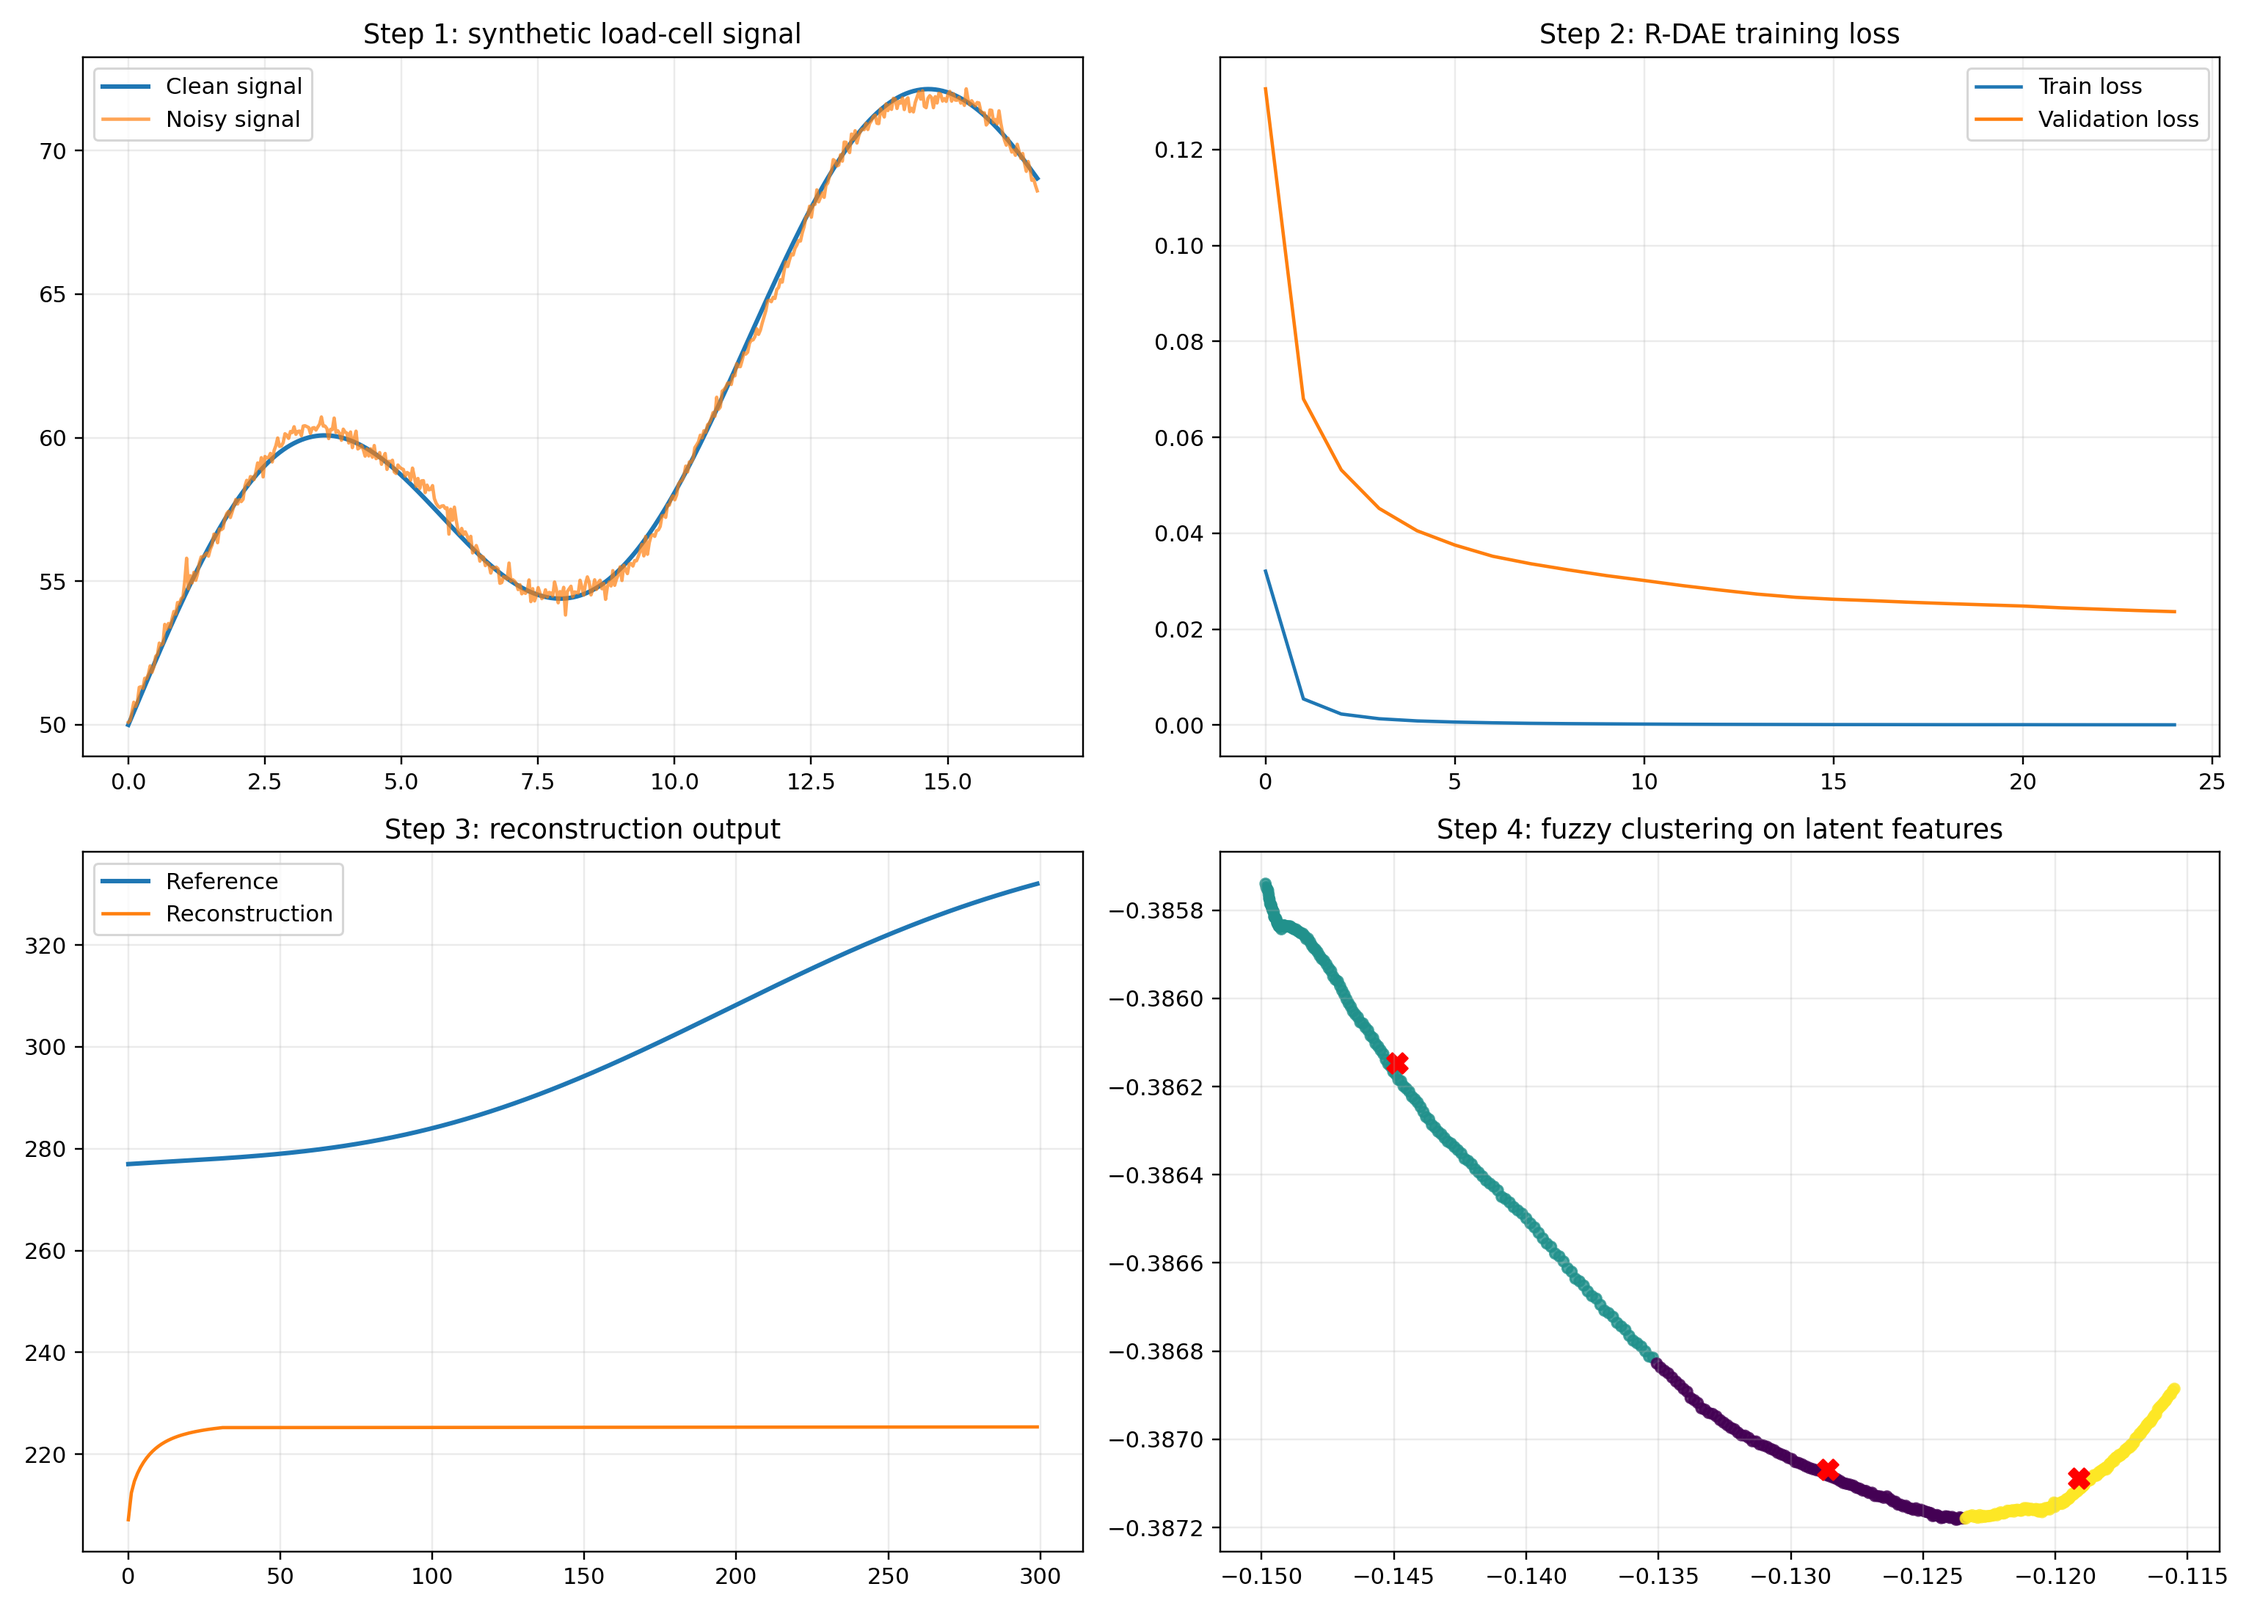
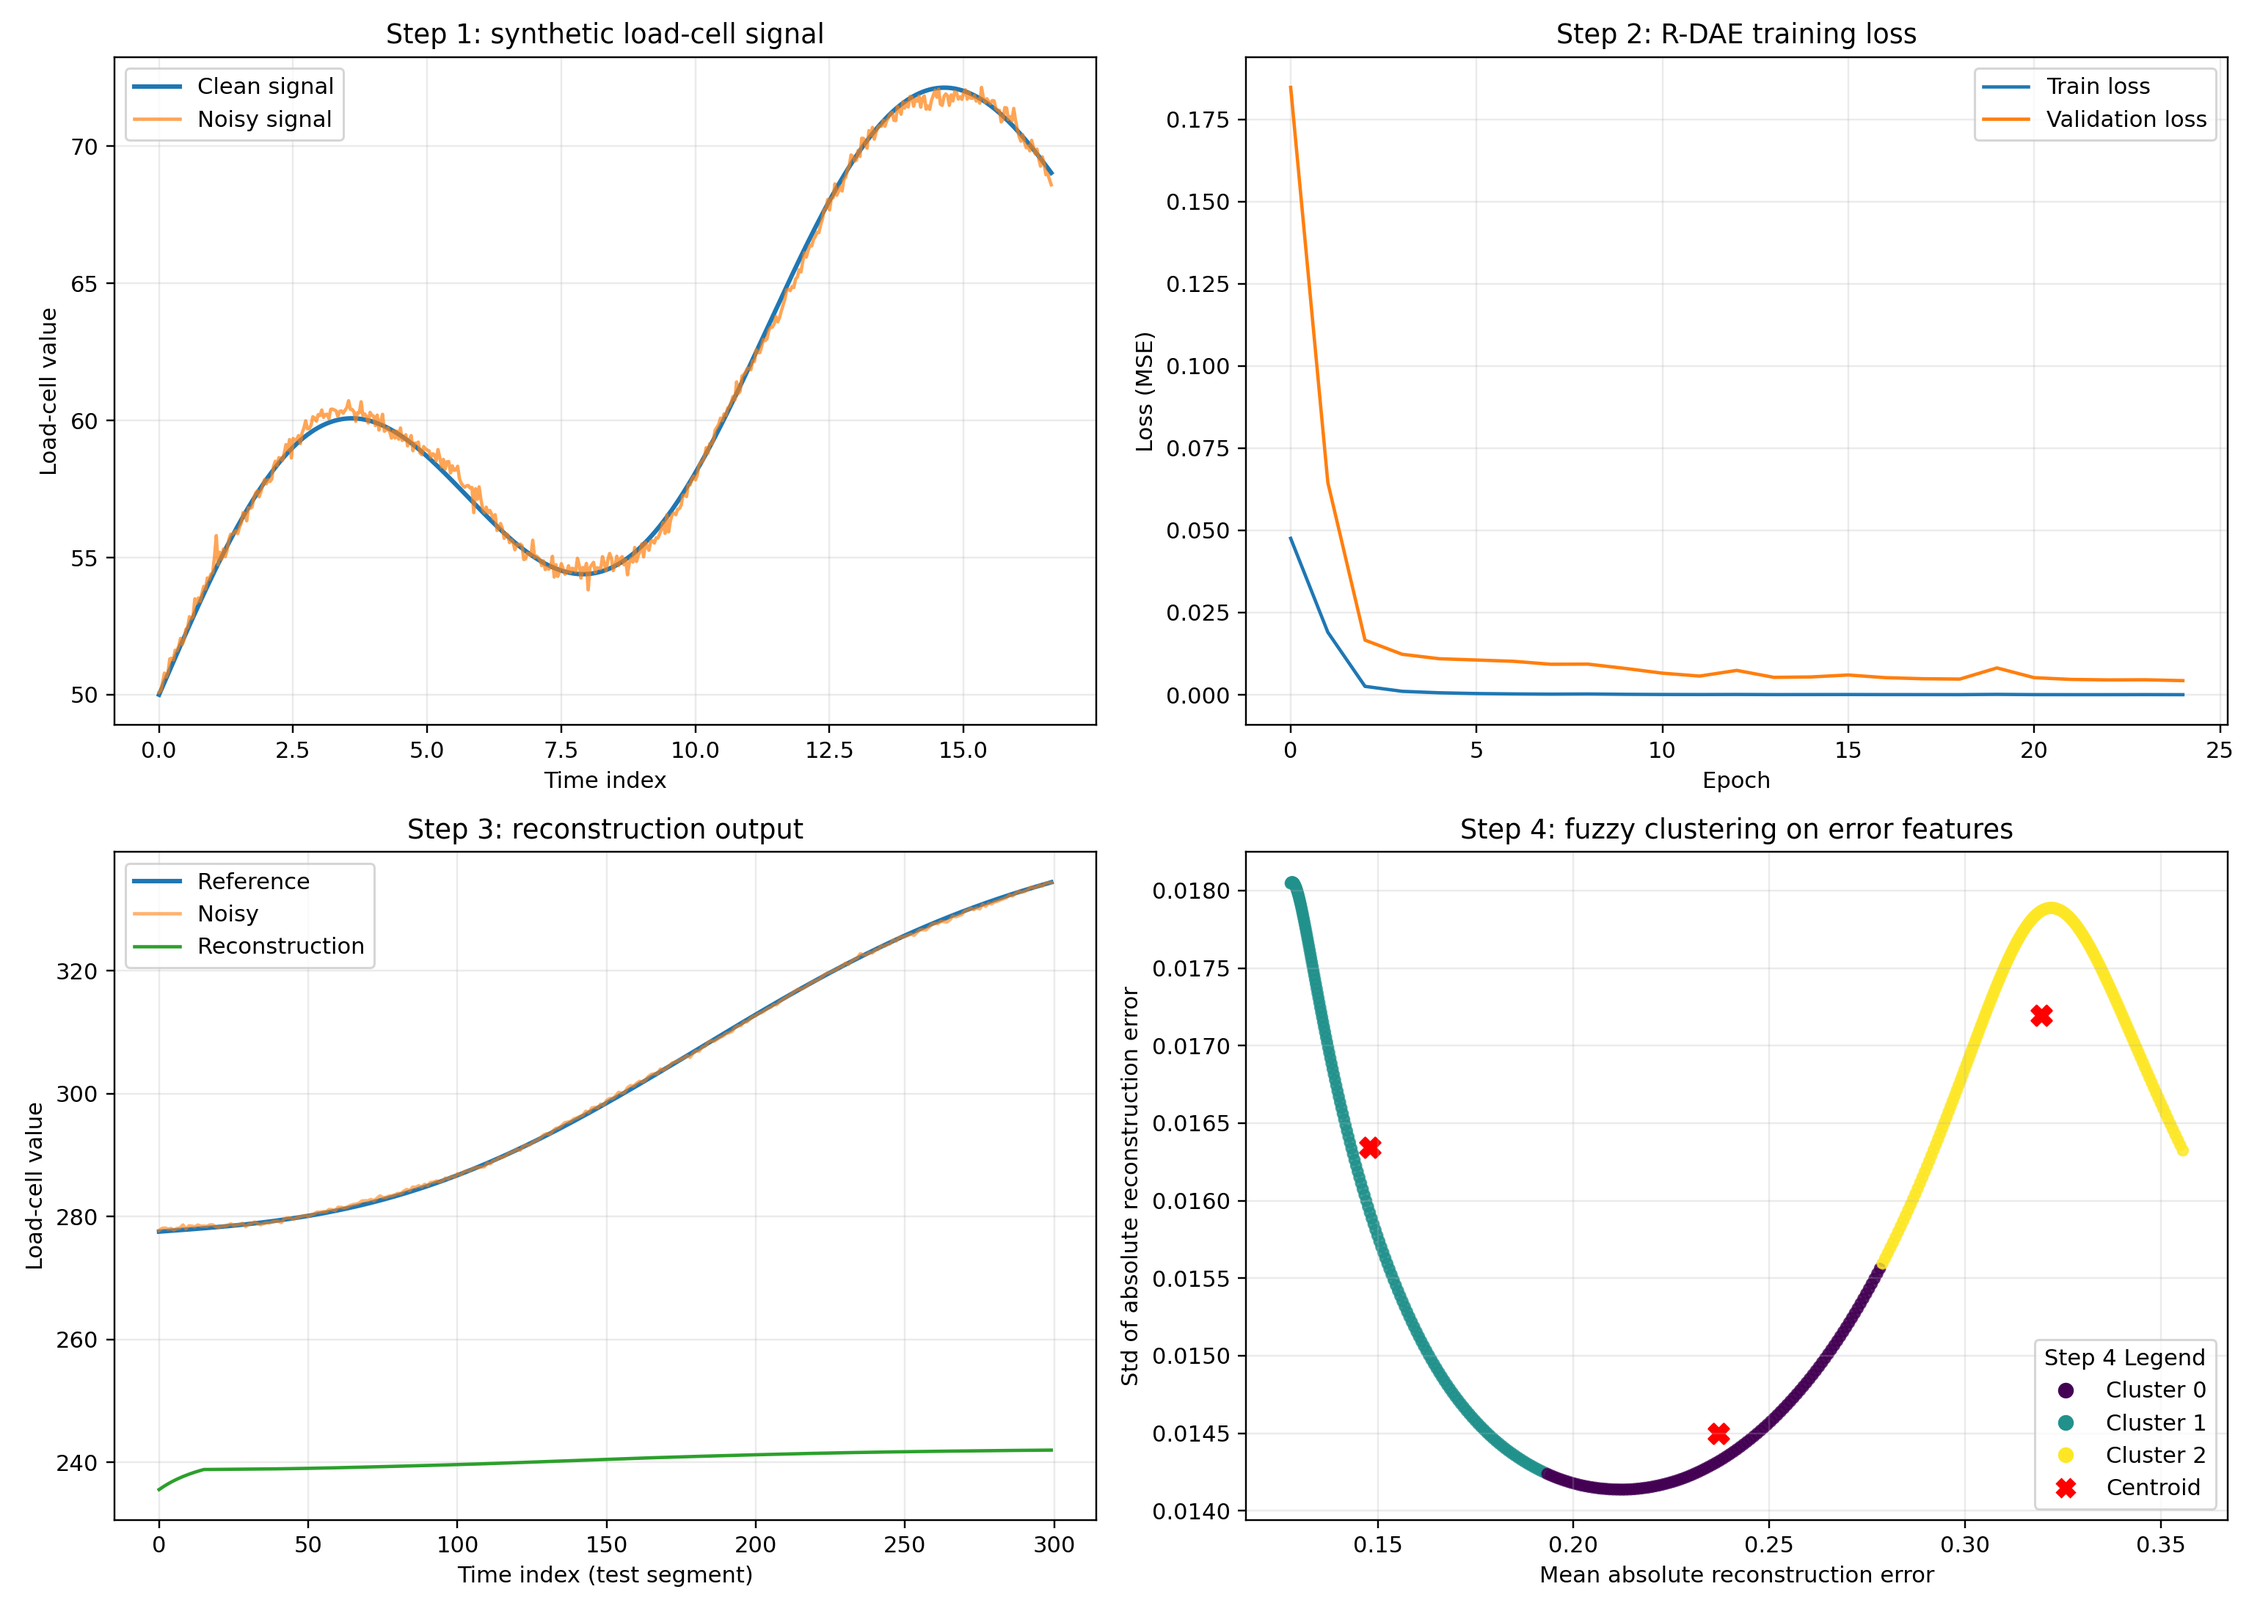
Program updation and title modification

diff --git a/loadcell_planned_pipeline.py b/loadcell_planned_pipeline.py
@@ -1,5 +1,6 @@
 import numpy as np
 import matplotlib.pyplot as plt
+from matplotlib.lines import Line2D
 import tensorflow as tf
 from tensorflow.keras import Model
 from tensorflow.keras.layers import Input, LSTM, RepeatVector, TimeDistributed, Dense
@@ -145,11 +146,13 @@ def main():
     print('Step 1: synthetic load-cell dataset generation')
     t, clean, noisy = generate_loadcell_signal(n_samples=3000)
 
-    train_noisy, train_clean, val_noisy, val_clean, test_noisy, test_clean = split_signal(noisy, clean)
-
+    # Use full signal range for this demo pipeline so sigmoid output can represent
+    # the complete trajectory during plotting and reconstruction.
     signal_scaler = MinMaxScaler(feature_range=(0.0, 1.0))
-    all_train_values = np.concatenate([train_noisy.reshape(-1, 1), train_clean.reshape(-1, 1)])
-    signal_scaler.fit(all_train_values)
+    all_values = np.concatenate([noisy.reshape(-1, 1), clean.reshape(-1, 1)])
+    signal_scaler.fit(all_values)
+
+    train_noisy, train_clean, val_noisy, val_clean, test_noisy, test_clean = split_signal(noisy, clean)
 
     train_noisy_norm = signal_scaler.transform(train_noisy.reshape(-1, 1)).ravel()
     val_noisy_norm = signal_scaler.transform(val_noisy.reshape(-1, 1)).ravel()
@@ -202,10 +205,19 @@ def main():
     reconstructed_seq = np.clip(reconstructed_seq, 0.0, 1.0)
     reconstructed_orig = signal_scaler.inverse_transform(reconstructed_seq.reshape(-1, 1)).ravel()
 
-    mse_noisy = mean_squared_error(test_clean, test_noisy)
-    mae_noisy = mean_absolute_error(test_clean, test_noisy)
-    mse_recon = mean_squared_error(test_clean, reconstructed_orig)
-    mae_recon = mean_absolute_error(test_clean, reconstructed_orig)
+    # Build aligned reference/noisy series from the same windowed domain for fair visual comparison.
+    reference_seq = reconstruct_signal(y_test.reshape(-1, WINDOW_SIZE, 1), len(test_clean_norm), WINDOW_SIZE)
+    reference_orig = signal_scaler.inverse_transform(reference_seq.reshape(-1, 1)).ravel()
+    noisy_seq = reconstruct_signal(X_test.reshape(-1, WINDOW_SIZE, 1), len(test_noisy_norm), WINDOW_SIZE)
+    noisy_orig = signal_scaler.inverse_transform(noisy_seq.reshape(-1, 1)).ravel()
+
+    valid_start = WINDOW_SIZE // 2
+    valid_end = len(test_clean) - (WINDOW_SIZE // 2)
+
+    mse_noisy = mean_squared_error(reference_orig[valid_start:valid_end], noisy_orig[valid_start:valid_end])
+    mae_noisy = mean_absolute_error(reference_orig[valid_start:valid_end], noisy_orig[valid_start:valid_end])
+    mse_recon = mean_squared_error(reference_orig[valid_start:valid_end], reconstructed_orig[valid_start:valid_end])
+    mae_recon = mean_absolute_error(reference_orig[valid_start:valid_end], reconstructed_orig[valid_start:valid_end])
 
     print('\n==== Evaluation summary ====')
     print(f'Noisy test MSE: {mse_noisy:.6f} | MAE: {mae_noisy:.6f}')
@@ -217,24 +229,69 @@ def main():
     axes[0, 0].plot(t[:500], clean[:500], label='Clean signal', linewidth=2)
     axes[0, 0].plot(t[:500], noisy[:500], label='Noisy signal', alpha=0.7)
     axes[0, 0].set_title('Step 1: synthetic load-cell signal')
+    axes[0, 0].set_xlabel('Time index')
+    axes[0, 0].set_ylabel('Load-cell value')
     axes[0, 0].legend()
     axes[0, 0].grid(alpha=0.25)
 
     axes[0, 1].plot(history.history['loss'], label='Train loss')
     axes[0, 1].plot(history.history['val_loss'], label='Validation loss')
     axes[0, 1].set_title('Step 2: R-DAE training loss')
+    axes[0, 1].set_xlabel('Epoch')
+    axes[0, 1].set_ylabel('Loss (MSE)')
     axes[0, 1].legend()
     axes[0, 1].grid(alpha=0.25)
 
-    axes[1, 0].plot(test_clean[:300], label='Reference', linewidth=2)
-    axes[1, 0].plot(reconstructed_orig[:300], label='Reconstruction', linewidth=1.5)
+    view_start = valid_start
+    view_end = min(valid_start + 300, valid_end)
+    axes[1, 0].plot(reference_orig[view_start:view_end], label='Reference', linewidth=2)
+    axes[1, 0].plot(noisy_orig[view_start:view_end], label='Noisy', alpha=0.6)
+    axes[1, 0].plot(reconstructed_orig[view_start:view_end], label='Reconstruction', linewidth=1.5)
     axes[1, 0].set_title('Step 3: reconstruction output')
+    axes[1, 0].set_xlabel('Time index (test segment)')
+    axes[1, 0].set_ylabel('Load-cell value')
     axes[1, 0].legend()
     axes[1, 0].grid(alpha=0.25)
 
-    axes[1, 1].scatter(feature_test[:, 0], feature_test[:, 1], c=labels, cmap='viridis', s=20, alpha=0.8)
-    axes[1, 1].scatter(centers[:, 0], centers[:, 1], c='red', s=80, marker='X')
-    axes[1, 1].set_title('Step 4: fuzzy clustering on latent features')
+    err_mean_idx = -3
+    err_std_idx = -2
+    scatter = axes[1, 1].scatter(
+        feature_test[:, err_mean_idx],
+        feature_test[:, err_std_idx],
+        c=labels,
+        cmap='viridis',
+        s=20,
+        alpha=0.8,
+    )
+    axes[1, 1].scatter(centers[:, err_mean_idx], centers[:, err_std_idx], c='red', s=80, marker='X')
+
+    unique_labels = np.unique(labels)
+    cluster_handles = [
+        Line2D(
+            [0],
+            [0],
+            marker='o',
+            linestyle='None',
+            markerfacecolor=scatter.cmap(scatter.norm(cluster_id)),
+            markeredgecolor='none',
+            markersize=7,
+            label=f'Cluster {cluster_id}',
+        )
+        for cluster_id in unique_labels
+    ]
+    centroid_handle = Line2D(
+        [0],
+        [0],
+        marker='X',
+        linestyle='None',
+        color='red',
+        markersize=8,
+        label='Centroid',
+    )
+    axes[1, 1].legend(handles=cluster_handles + [centroid_handle], title='Step 4 Legend')
+    axes[1, 1].set_title('Step 4: fuzzy clustering on error features')
+    axes[1, 1].set_xlabel('Mean absolute reconstruction error')
+    axes[1, 1].set_ylabel('Std of absolute reconstruction error')
     axes[1, 1].grid(alpha=0.25)
 
     fig.tight_layout()

diff --git a/methodology_strategy_comparison.md b/methodology_strategy_comparison.md
@@ -65,8 +65,9 @@ flowchart LR
 
 ## Markdown comparison table
 
+
 | Stage                  | Paper strategy                           | Implemented strategy                             | Planned strategy                                       | Difference                                      | Upgrade needed                                                                           |
-| ---------------------- | ---------------------------------------- | ------------------------------------------------ | ------------------------------------------------------ | ----------------------------------------------- | ---------------------------------------------------------------------------------------- |
+| ------------------------ | ------------------------------------------ | -------------------------------------------------- | -------------------------------------------------------- | ------------------------------------------------- | ------------------------------------------------------------------------------------------ |
 | Data source            | Bearing vibration signals                | Load-cell ADC recordings                         | Multi-load, multi-frequency sensor dataset             | Different domain and target objective           | Collect wider dataset with multiple loads and frequency conditions                       |
 | Goal                   | Fault diagnosis + RUL                    | Noise reduction + calibration                    | Denoising + health assessment + RUL                    | Current code stops at signal quality            | Extend task from denoising to degradation tracking                                       |
 | Preprocessing          | Segmentation + windowing + normalization | Scaling + windowing + median baseline comparison | Robust preprocessing + calibration pipeline            | Similar structure but weaker pipeline           | Standardize a single preprocessing function and keep train/validation split by time/load |
